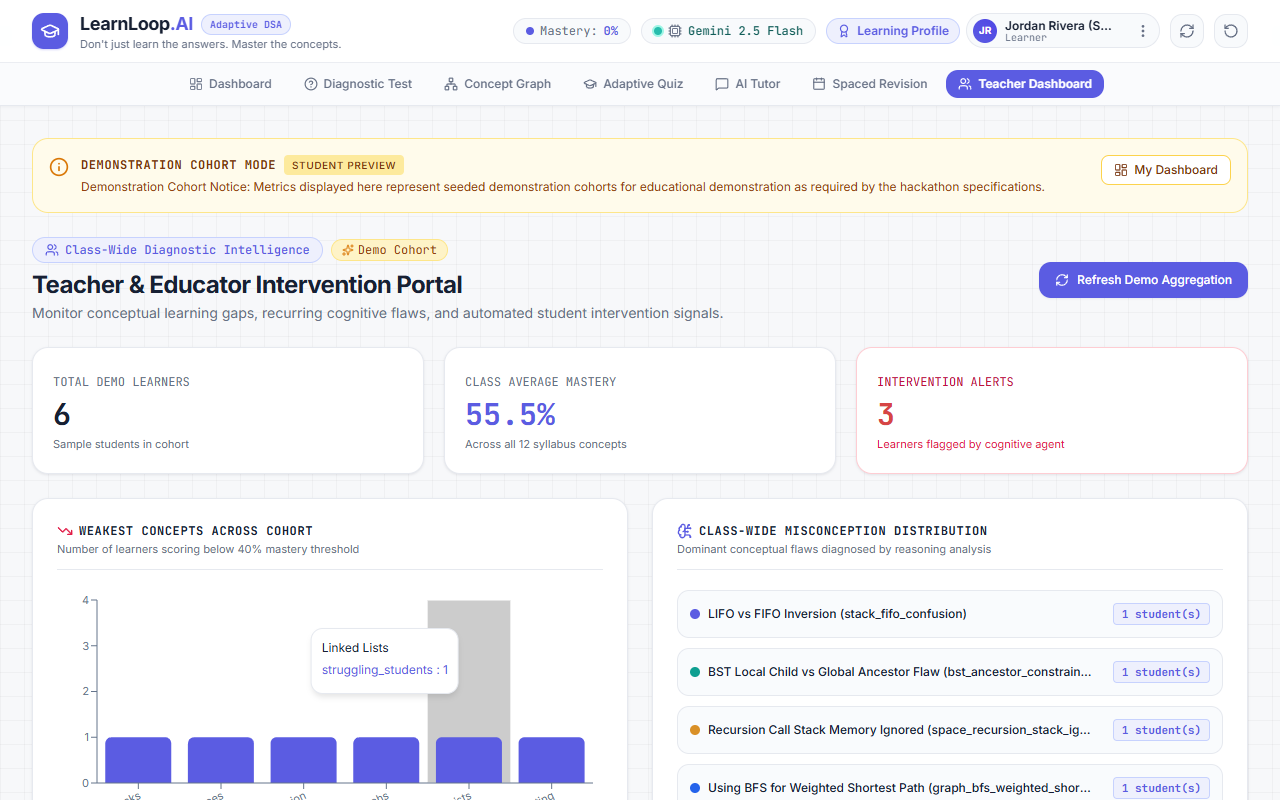
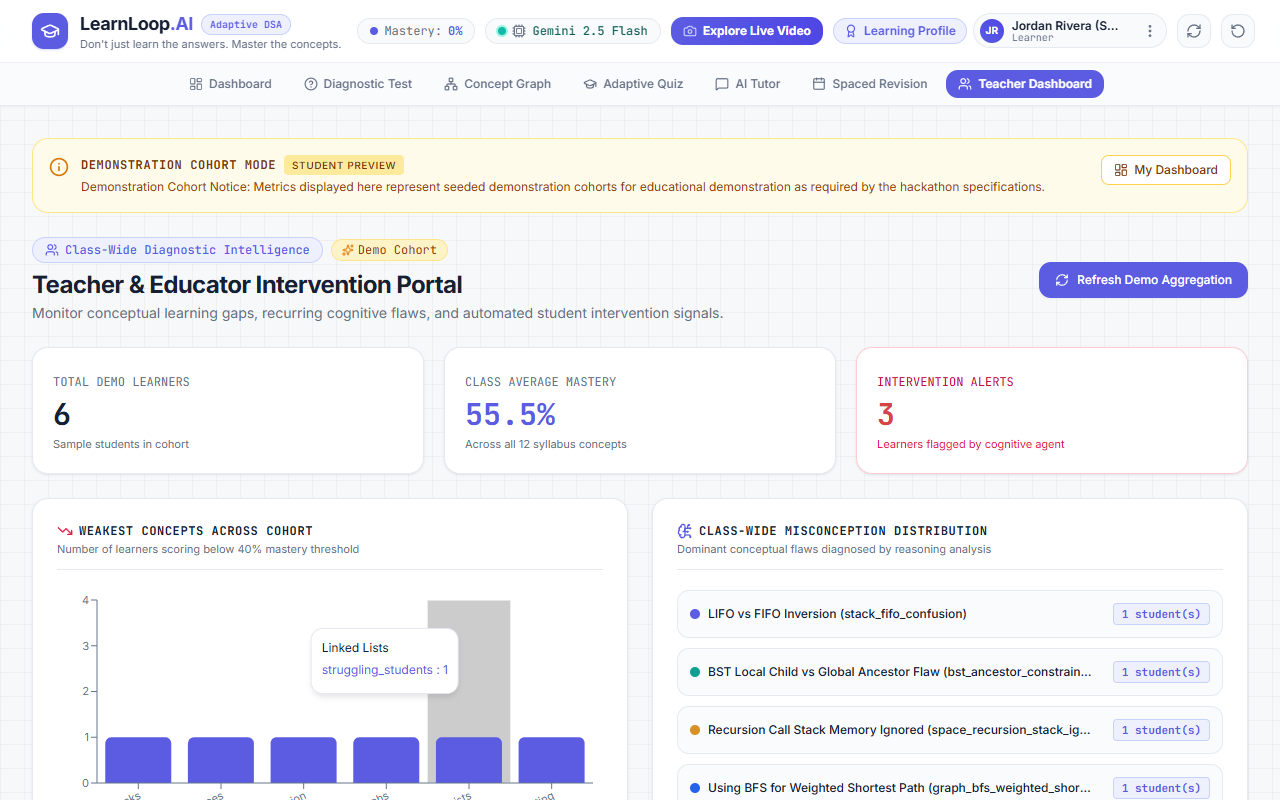
chore: format and finalize live video and navigation updates

Changed region(s): [[0.2812, 0.0, 0.875, 0.0625], [0.9062, 0.0312, 0.9688, 0.0625]]

diff --git a/frontend/src/components/Navbar.tsx b/frontend/src/components/Navbar.tsx
@@ -143,13 +143,13 @@ export const Navbar: React.FC<NavbarProps> = ({
               >
                 <span
                   className={`w-2 h-2 rounded-full ${profile.overall_mastery >= 75 ? 'bg-teal-500' :
-                      profile.overall_mastery >= 45 ? 'bg-amber-500' : 'bg-[#5B5CE2]'
+                    profile.overall_mastery >= 45 ? 'bg-amber-500' : 'bg-[#5B5CE2]'
                     }`}
                 />
                 <span className="text-[#667085] hidden md:inline">Mastery:</span>
                 <span
                   className={`font-bold ${profile.overall_mastery >= 75 ? 'text-teal-700' :
-                      profile.overall_mastery >= 45 ? 'text-amber-700' : 'text-[#5B5CE2]'
+                    profile.overall_mastery >= 45 ? 'text-amber-700' : 'text-[#5B5CE2]'
                     }`}
                 >
                   {profile.overall_mastery}%
@@ -292,8 +292,8 @@ export const Navbar: React.FC<NavbarProps> = ({
                 onClick={() => handleNavClick(item.id)}
                 aria-current={isActive ? 'page' : undefined}
                 className={`flex items-center gap-1.5 px-3 py-1.5 rounded-xl text-xs font-sans whitespace-nowrap transition-all shrink-0 ${isActive
-                    ? 'bg-[#5B5CE2] text-white font-semibold shadow-xs'
-                    : 'text-[#667085] hover:text-[#172033] hover:bg-white border border-transparent font-medium'
+                  ? 'bg-[#5B5CE2] text-white font-semibold shadow-xs'
+                  : 'text-[#667085] hover:text-[#172033] hover:bg-white border border-transparent font-medium'
                   }`}
               >
                 <Icon className={`w-3.5 h-3.5 shrink-0 ${isActive ? 'text-white' : 'text-[#667085]'}`} />
@@ -319,8 +319,8 @@ export const Navbar: React.FC<NavbarProps> = ({
                   onClick={() => handleNavClick(item.id)}
                   aria-current={isActive ? 'page' : undefined}
                   className={`w-full flex items-center justify-between px-3.5 py-2.5 rounded-xl text-sm font-sans transition-colors ${isActive
-                      ? 'bg-[#EEF0FD] text-[#5B5CE2] font-semibold border border-[#C7D2FE]'
-                      : 'text-[#172033] hover:bg-slate-50'
+                    ? 'bg-[#EEF0FD] text-[#5B5CE2] font-semibold border border-[#C7D2FE]'
+                    : 'text-[#172033] hover:bg-slate-50'
                     }`}
                 >
                   <div className="flex items-center gap-3">

diff --git a/frontend/src/hooks/useLiveVideo.ts b/frontend/src/hooks/useLiveVideo.ts
@@ -194,15 +194,15 @@ export function useLiveVideo(): UseLiveVideoReturn {
           audio: false,
           video: chosenDeviceId
             ? {
-                deviceId: { exact: chosenDeviceId },
-                width: { ideal: 1280, max: 1920 },
-                height: { ideal: 720, max: 1080 }
-              }
+              deviceId: { exact: chosenDeviceId },
+              width: { ideal: 1280, max: 1920 },
+              height: { ideal: 720, max: 1080 }
+            }
             : {
-                facingMode: 'user',
-                width: { ideal: 1280, max: 1920 },
-                height: { ideal: 720, max: 1080 }
-              }
+              facingMode: 'user',
+              width: { ideal: 1280, max: 1920 },
+              height: { ideal: 720, max: 1080 }
+            }
         };
 
         activeStream = await navigator.mediaDevices.getUserMedia(constraints);

diff --git a/frontend/src/components/LiveVideoModal.tsx b/frontend/src/components/LiveVideoModal.tsx
@@ -351,11 +351,10 @@ export const LiveVideoModal: React.FC<LiveVideoModalProps> = ({
                     <button
                       type="button"
                       onClick={toggleMirror}
-                      className={`p-1.5 rounded-lg backdrop-blur-md border text-xs transition-colors cursor-pointer ${
-                        isMirrored
+                      className={`p-1.5 rounded-lg backdrop-blur-md border text-xs transition-colors cursor-pointer ${isMirrored
                           ? 'bg-indigo-600/80 border-indigo-400 text-white'
                           : 'bg-black/60 border-white/20 text-white/80 hover:text-white'
-                      }`}
+                        }`}
                       title={isMirrored ? 'Disable Mirror View (natural reading)' : 'Enable Mirror View'}
                     >
                       <FlipHorizontal className="w-4 h-4" />

diff --git a/LEARNLOOP_AI_CTA_AND_LIVE_VIDEO_FIX_REPORT.md b/LEARNLOOP_AI_CTA_AND_LIVE_VIDEO_FIX_REPORT.md
@@ -216,3 +216,4 @@ The LearnLoop AI application now exhibits clean, professional, and reliable user
 1. The landing page hero is visually balanced and centered around **"Get Started Free"**, eliminating evaluator confusion from nonfunctional demo buttons.
 2. The **Explore Live Video** feature is fully operational: physical cameras (such as HP 5MP Camera) are intelligently preferred over inactive virtual drivers, camera switching dynamically re-acquires the feed, the preview is never black upon mounting, and visual DSA problem frames receive instantaneous Socratic guidance from Gemini 2.5 Flash.
 3. All code has been verified locally, builds cleanly, and is ready for synchronization to GitHub `main` and production deployment on Vercel.
+

diff --git a/EXPLORE_LIVE_VIDEO_FIX_REPORT.md b/EXPLORE_LIVE_VIDEO_FIX_REPORT.md
@@ -187,3 +187,4 @@ dist/assets/index-YybZh_ob.js   901.41 kB │ gzip: 242.27 kB
 
 ---
 *Report certified by Antigravity Autonomous Agent.*
+
